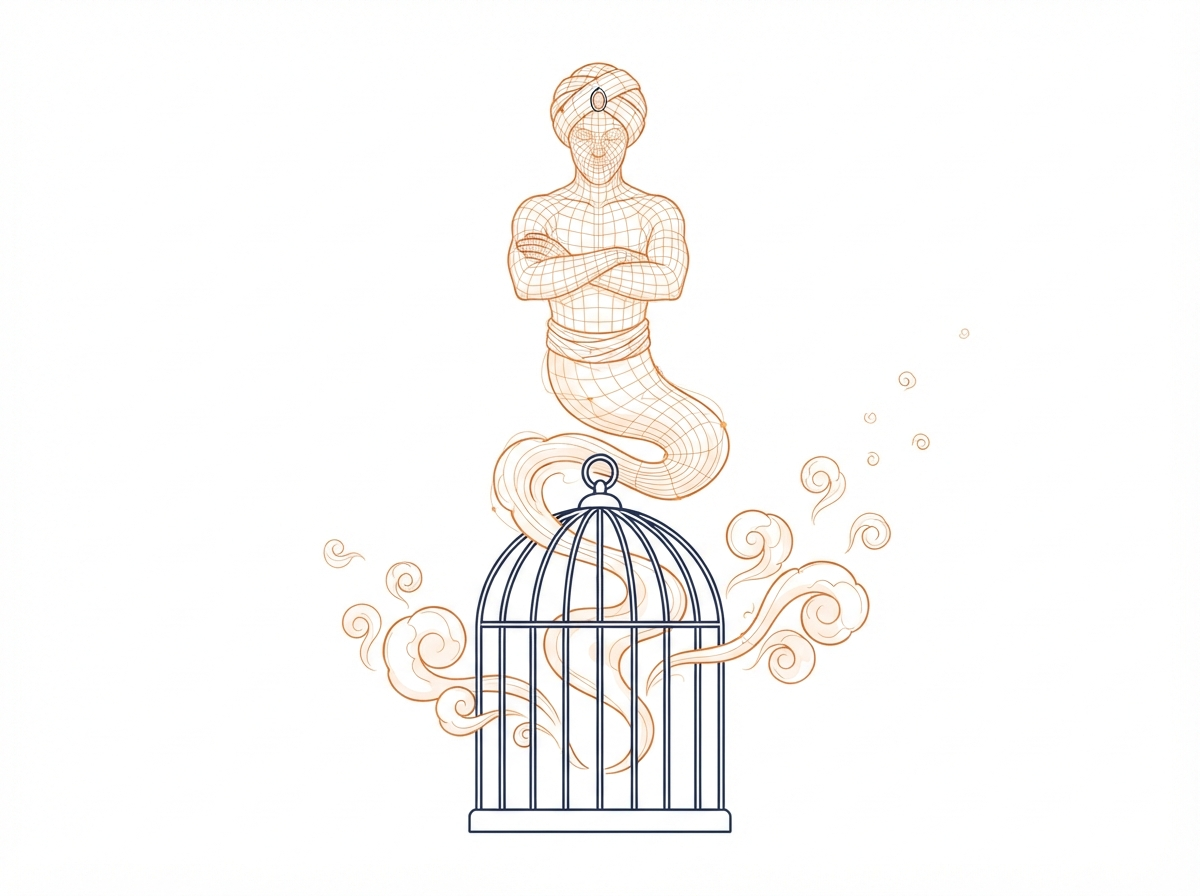
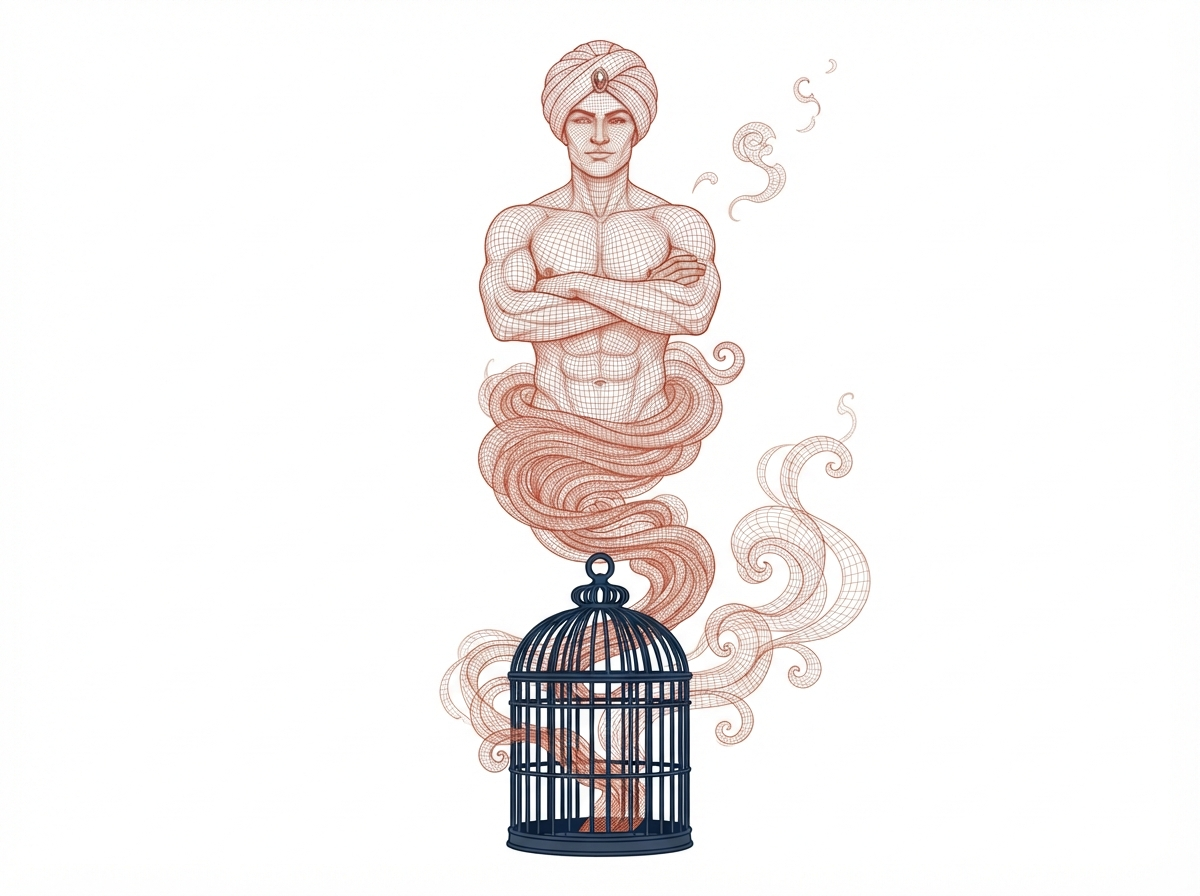
Black box slide, deterministic/stochastic before Claude Code, jailing and harness slides, skill dictionary entry, colour rule for jailing/harness
Claude-Session: https://claude.ai/code/session_01B3j1C4xxpyiURJEUX3y78T

diff --git a/slides/theme.css b/slides/theme.css
@@ -169,8 +169,8 @@
 .reveal .agent { display: flex; align-items: center; justify-content: center; gap: 0.3em; max-width: 1180px; margin: 0.8em auto; }
 .reveal .agent-io { flex: none; width: 4.6em; text-align: center; padding: 0.6em 0.3em; border: 3px solid var(--muted); border-radius: 14px; background: var(--node); font-size: 0.85em; line-height: 1.2; }
 .reveal .agent-arrow { flex: none; font-size: 1.6em; color: var(--muted); }
-.reveal .agent-core { flex: 1; padding: 0.4em 0.5em 0.6em; border: 3px solid var(--accent); border-radius: 16px; background: var(--surface); }
-.reveal .agent-title { color: var(--accent); font-weight: 700; font-size: 0.7em; margin-bottom: 0.4em; }
+.reveal .agent-core { flex: 1; padding: 0.4em 0.5em 0.6em; border: 3px solid var(--muted); border-radius: 16px; background: var(--surface); }
+.reveal .agent-title { font-weight: 700; font-size: 0.7em; margin-bottom: 0.4em; background: linear-gradient(90deg, var(--accent) 50%, var(--accent-2) 50%); -webkit-background-clip: text; background-clip: text; color: transparent; -webkit-text-fill-color: transparent; }
 .reveal .agent-inner { display: flex; align-items: center; justify-content: center; gap: 0.3em; }
 .reveal .agent-box { flex: 1; text-align: center; padding: 0.5em 0.3em; border: 2px solid var(--muted); border-radius: 12px; background: var(--bg); font-size: 0.85em; line-height: 1.2; }
 .reveal .agent-box.focus { border-color: var(--accent); background: var(--accent-soft); }
@@ -189,10 +189,10 @@
 .reveal .llm-down { color: var(--muted); line-height: 0.9; }
 .reveal .llm-back { color: var(--accent-2); font-size: 0.8em; }
 .reveal .agent-box.llm { flex: 1.25; }
-.reveal .agent-box.tools { display: flex; flex-direction: column; gap: 0.25em; padding: 0.3em 0.4em; font-size: 0.7em; }
-.reveal .tools-title { font-size: 1.15em; }
+.reveal .agent-box.tools { border-color: var(--accent-2); display: flex; flex-direction: column; gap: 0.25em; padding: 0.3em 0.4em; font-size: 0.7em; }
+.reveal .tools-title { font-size: 1.15em; color: var(--accent-2); font-weight: 700; }
 .reveal .tool-chip { padding: 0.2em 0.3em; border: 1px solid var(--muted); border-radius: 8px; background: var(--node); line-height: 1.15; }
-.reveal .tool-chip.built { border-color: var(--accent); background: var(--accent-soft); }
+.reveal .tool-chip.built { border-color: var(--accent-2); background: var(--accent-2-soft); }
 .reveal .tool-chip .muted { font-size: 0.8em; }
 
 /* Programmazione tradizionale e Machine Learning: dati in ingresso, computer, uscita */
@@ -202,10 +202,10 @@
 .reveal .ml-box.focus { border-width: 6px; border-color: var(--accent); background: var(--accent-soft); color: var(--accent); font-weight: 700; }
 .reveal .ml-box.focus.det { border-color: var(--accent-2); background: var(--accent-2-soft); color: var(--accent-2); } /* deterministico = blu */
 
-/* Stocastico e deterministico: stesso schema dell'Overview, con le due parti cerchiate */
+/* Stocastico e deterministico: stesso schema, interno nascosto, le due parti colorate */
 .reveal .cli-frame.two .agent-io, .reveal .cli-frame.two .agent-arrow { opacity: 0.35; }
-.reveal .agent-box.ring-a { outline: 5px solid var(--accent); outline-offset: 5px; }
-.reveal .agent-box.ring-b { outline: 5px solid var(--accent-2); outline-offset: 5px; }
+.reveal .agent-box.fill-a { background: var(--accent); border-color: var(--accent); color: var(--bg); font-weight: 700; font-size: 0.75em; padding: 1.2em 0.2em; }
+.reveal .agent-box.fill-b { background: var(--accent-2); border-color: var(--accent-2); color: var(--bg); font-weight: 700; font-size: 0.75em; padding: 1.2em 0.2em; }
 .reveal .ring-tag { align-self: center; padding: 0 0.7em; border-radius: 999px; font-size: 1.05em; font-weight: 700; color: var(--bg); }
 .reveal .ring-a .ring-tag { background: var(--accent); }
 .reveal .ring-b .ring-tag { background: var(--accent-2); }
@@ -215,14 +215,17 @@
 .reveal .pipe.small .pipe-arrow { font-size: 0.9em; }
 
 
-/* La gabbia e il genio: immagine con le etichette ai lati */
-.reveal .genio { display: flex; align-items: stretch; justify-content: center; gap: 0.6em; margin: 0.2em auto; }
-.reveal .genio img { width: 640px; height: 420px; object-fit: cover; margin: 0; border: 0; box-shadow: none; background: transparent; mix-blend-mode: multiply; filter: brightness(1.08) contrast(1.12); }
-.reveal .genio-label { display: flex; flex-direction: column; justify-content: flex-start; font-size: 0.8em; line-height: 1.1; text-align: left; min-width: 4.5em; }
-.reveal .genio-label.bottom { justify-content: flex-end; text-align: right; padding-bottom: 1em; }
-.reveal .genio-label.top { padding-top: 1em; }
-.reveal .genio-label b { font-size: 1.3em; color: var(--text); }
-.reveal .genio-label b.hot { color: var(--accent); }
+/* La gabbia e il genio: un cerchio e una freccia per ciascun concetto (blu = deterministico, arancione = stocastico) */
+.reveal .genio-svg { display: block; width: 900px; max-width: 100%; margin: 0.2em auto; overflow: visible; }
+.reveal .gh-img { mix-blend-mode: multiply; filter: brightness(1.08) contrast(1.12); }
+.reveal .gh-ring-b, .reveal .gh-line-b { fill: none; stroke: var(--accent-2); stroke-width: 5; }
+.reveal .gh-ring-a, .reveal .gh-line-a { fill: none; stroke: var(--accent); stroke-width: 5; }
+.reveal .gh-fill-b { fill: var(--accent-2); }
+.reveal .gh-fill-a { fill: var(--accent); }
+.reveal .gh-t { font-weight: 700; font-size: 38px; }
+.reveal .gh-t-b { fill: var(--accent-2); }
+.reveal .gh-t-a { fill: var(--accent); }
+.reveal .gh-s { fill: var(--muted); font-size: 20px; }
 /* riquadri a intestazione: il nome dell'attore è la fascia in alto, tutti alti uguali */
 .reveal .pipe.narrow { align-items: stretch; }
 .reveal .pipe.narrow .pipe-arrow { align-self: center; }
@@ -302,3 +305,26 @@
 .reveal .azw-r { padding: 0.12em 0; line-height: 1.25; }
 .reveal .azw-r b { color: var(--muted); margin-right: 0.4em; }
 .reveal .azw-r small { display: block; font-size: 0.85em; color: var(--muted); }
+
+/* Agente come black box: stesso riquadro dell'agente, interno chiuso */
+.reveal .agent-core.black { background: var(--text); border-color: var(--text); text-align: center; padding: 0.6em 0.5em 0.8em; }
+.reveal .agent-core.black .agent-title { background: none; -webkit-text-fill-color: var(--bg); color: var(--bg); }
+.reveal .black-q { color: var(--bg); font-size: 1.1em; line-height: 1.3; padding: 0.6em 0; }
+.reveal .black-sub { font-size: 0.6em; opacity: 0.8; }
+
+/* Voce di vocabolario (stile enciclopedia): serif, parola in grassetto, pronuncia, sensi numerati */
+.reveal .dict { max-width: 900px; margin: 0.6em auto; padding: 0.8em 1.4em 1em; text-align: left; font-family: Georgia, "Times New Roman", serif; background: var(--surface); border-top: 4px double var(--text); border-bottom: 1px solid var(--muted); }
+.reveal .dict-head { display: flex; align-items: baseline; gap: 0.6em; border-bottom: 1px solid var(--muted); padding-bottom: 0.2em; }
+.reveal .dict-word { font-size: 1.9em; font-weight: 700; color: var(--text); letter-spacing: 0; }
+.reveal .dict-word.duo { background: linear-gradient(90deg, var(--accent) 50%, var(--accent-2) 50%); -webkit-background-clip: text; background-clip: text; color: transparent; -webkit-text-fill-color: transparent; }
+.reveal .dict code.dict-o { color: var(--accent); }
+.reveal .dict .dict-b { color: var(--accent-2); font-weight: 700; }
+.reveal .dict-pron { color: var(--muted); font-size: 0.9em; }
+.reveal .dict-pos { font-style: italic; color: var(--muted); font-size: 0.85em; }
+.reveal .dict-ety { font-size: 0.6em; color: var(--muted); margin: 0.3em 0 0.6em; }
+.reveal .dict-senses { margin: 0; padding-left: 1.4em; font-size: 0.75em; line-height: 1.35; display: block; }
+.reveal .dict-senses li { margin: 0 0 0.5em; }
+.reveal .dict-senses li::marker { font-weight: 700; color: var(--text); }
+.reveal .dict-field { font-family: var(--r-main-font, sans-serif); font-variant: small-caps; font-weight: 700; font-size: 0.8em; color: var(--muted); margin-right: 0.4em; letter-spacing: 0.04em; }
+/* Titolo a due colori: contiene sia il testo per il genio (arancione) sia il codice (blu) */
+.reveal h1 .duo { background: linear-gradient(90deg, var(--accent) 50%, var(--accent-2) 50%); -webkit-background-clip: text; background-clip: text; color: transparent; -webkit-text-fill-color: transparent; }

diff --git a/slides/slides.md b/slides/slides.md
@@ -11,8 +11,8 @@ Note: Obiettivo: capire cos'è un agente, come funziona dentro, quali trappole h
 ## Di che cosa parleremo
 
 <div class="path">
-  <div><b>1</b>Overview</div>
-  <div><b>2</b>Come funziona dentro</div>
+  <div><b>1</b>Che cos'è</div>
+  <div><b>2</b>Come funziona</div>
   <div><b>3</b>Le trappole</div>
   <div><b>4</b>Un agente dal vivo</div>
   <div><b>5</b>Rischi e responsabilità</div>
@@ -20,13 +20,11 @@ Note: Obiettivo: capire cos'è un agente, come funziona dentro, quali trappole h
 
 ---
 
-# 1. Overview
-
-<span class="muted">Che cos'è un agente</span>
+# 1. Che cos'è un agente?
 
 <div class="path">
-  <div class="here"><b>1</b>Overview</div>
-  <div><b>2</b>Come funziona dentro</div>
+  <div class="here"><b>1</b>Che cos'è</div>
+  <div><b>2</b>Come funziona</div>
   <div><b>3</b>Le trappole</div>
   <div><b>4</b>Un agente dal vivo</div>
   <div><b>5</b>Rischi e responsabilità</div>
@@ -34,35 +32,17 @@ Note: Obiettivo: capire cos'è un agente, come funziona dentro, quali trappole h
 
 ---
 
-## Overview: che cos'è un agente
+## L'agente come black box
 
 <div class="cli-frame">
-  <div class="cli-title">CLI · claude (di default)</div>
   <div class="agent">
-    <div class="agent-io">Prompt</div>
+    <div class="agent-io">prompt</div>
     <div class="agent-arrow">→</div>
-    <div class="agent-core">
-      <div class="agent-title">Agente</div>
-      <div class="agent-inner">
-        <div class="agent-box focus llm">
-          <div class="llm-title">Claude · un LLM</div>
-          <div class="llm-step">Contesto<br><span class="muted">prompt, ragionamento, risultati</span></div>
-          <div class="llm-down">↓</div>
-          <div class="llm-step">Transformer<br><span class="muted">attention + strati</span></div>
-          <div class="llm-down">↓</div>
-          <div class="llm-step">Prossimo token</div>
-          <div class="llm-back">↺ e torna nel contesto</div>
-        </div>
-        <div class="agent-loop">⇄</div>
-        <div class="agent-box tools">
-          <div class="tools-title">Strumenti</div>
-          <div class="tool-chip">di default<br><span class="muted">Read · Edit · Bash</span></div>
-          <div class="tool-chip built">costruiti da noi<br><span class="muted">CLI · MCP</span></div>
-        </div>
-      </div>
+    <div class="agent-core black">
+      <div class="black-q">Agente<br><span class="black-sub">(Claude Code)</span></div>
     </div>
     <div class="agent-arrow">→</div>
-    <div class="agent-io out">Output<br><span class="muted">codice,<br>infrastruttura</span></div>
+    <div class="agent-io out">&amp;lt;code&amp;gt;</div>
   </div>
 </div>
 
@@ -70,48 +50,22 @@ Note: Obiettivo: capire cos'è un agente, come funziona dentro, quali trappole h
 
 ## Deterministico e stocastico
 
-<div class="cli-frame two">
-  <div class="cli-title">CLI · claude (di default)</div>
+<div class="cli-frame">
   <div class="agent">
-    <div class="agent-io">Prompt</div>
+    <div class="agent-io">prompt</div>
     <div class="agent-arrow">→</div>
     <div class="agent-core">
       <div class="agent-title">Agente</div>
       <div class="agent-inner">
-        <div class="agent-box focus llm ring-a">
-          <div class="ring-tag">stocastico</div>
-          <div class="llm-title">Claude · un LLM</div>
-          <div class="llm-step">Contesto<br><span class="muted">prompt, ragionamento, risultati</span></div>
-          <div class="llm-down">↓</div>
-          <div class="llm-step">Transformer<br><span class="muted">attention + strati</span></div>
-          <div class="llm-down">↓</div>
-          <div class="llm-step">Prossimo token</div>
-          <div class="llm-back">↺ e torna nel contesto</div>
-        </div>
+        <div class="agent-box fill-a">stocastico</div>
         <div class="agent-loop">⇄</div>
-        <div class="agent-box tools ring-b">
-          <div class="ring-tag">deterministico</div>
-          <div class="tools-title">Strumenti</div>
-          <div class="tool-chip">di default<br><span class="muted">Read · Edit · Bash</span></div>
-          <div class="tool-chip built">costruiti da noi<br><span class="muted">CLI · MCP</span></div>
-        </div>
+        <div class="agent-box fill-b">deterministico</div>
       </div>
     </div>
     <div class="agent-arrow">→</div>
-    <div class="agent-io out">Output<br><span class="muted">codice,<br>infrastruttura</span></div>
+    <div class="agent-io out">&amp;lt;code&amp;gt;</div>
   </div>
 </div>
-
----
-
-## Il genio della gabbia
-
-<div class="genio">
-  <div class="genio-label bottom"><span class="muted">agente</span><br><b>deterministico</b></div>
-  <img src="img/gabbia-genio.jpg" alt="Un genio di fumo a fil di ferro sorretto da una gabbia di metallo">
-  <div class="genio-label top"><span class="muted">agente</span><br><b class="hot">stocastico</b></div>
-</div>
-
 
 ---
 
@@ -153,7 +107,104 @@ Le regole le trova la macchina dagli esempi.
 
 ---
 
-# Skill
+## Che cos'è Claude Code?
+
+<div class="cli-frame">
+  <div class="cli-title">CLI · claude (di default)</div>
+  <div class="agent">
+    <div class="agent-io">Prompt</div>
+    <div class="agent-arrow">→</div>
+    <div class="agent-core">
+      <div class="agent-title">Agente</div>
+      <div class="agent-inner">
+        <div class="agent-box focus llm">
+          <div class="llm-title">Claude · un LLM</div>
+          <div class="llm-step">Contesto<br><span class="muted">prompt, ragionamento, risultati</span></div>
+          <div class="llm-down">↓</div>
+          <div class="llm-step">Transformer<br><span class="muted">attention + strati</span></div>
+          <div class="llm-down">↓</div>
+          <div class="llm-step">Prossimo token</div>
+          <div class="llm-back">↺ e torna nel contesto</div>
+        </div>
+        <div class="agent-loop">⇄</div>
+        <div class="agent-box tools">
+          <div class="tools-title">Strumenti</div>
+          <div class="tool-chip">default<br><span class="muted">Read · Edit · Bash</span></div>
+          <div class="tool-chip built">custom<br><span class="muted">CLI · MCP</span></div>
+        </div>
+      </div>
+    </div>
+    <div class="agent-arrow">→</div>
+    <div class="agent-io out">Output<br><span class="muted">codice,<br>infrastruttura</span></div>
+  </div>
+</div>
+
+---
+
+## Il genio della lampada
+
+<svg class="genio-svg" viewBox="0 0 1000 440" role="img" aria-label="Il genio che esce dalla lampada: la lampada è deterministica, il genio è il modello stocastico">
+  <defs>
+    <marker id="gh-b2" viewBox="0 0 10 10" refX="8" refY="5" markerWidth="7" markerHeight="7" orient="auto-start-reverse"><path d="M0,0 L10,5 L0,10 z" class="gh-fill-b"/></marker>
+    <marker id="gh-a2" viewBox="0 0 10 10" refX="8" refY="5" markerWidth="7" markerHeight="7" orient="auto-start-reverse"><path d="M0,0 L10,5 L0,10 z" class="gh-fill-a"/></marker>
+  </defs>
+  <image href="img/lampada-genio.jpg" x="220" y="10" width="560" height="418" class="gh-img"/>
+  <ellipse cx="506" cy="362" rx="125" ry="62" class="gh-ring-b"/>
+  <ellipse cx="500" cy="125" rx="95" ry="115" class="gh-ring-a"/>
+  <line x1="300" y1="392" x2="395" y2="392" class="gh-line-b" marker-end="url(#gh-b2)"/>
+  <line x1="790" y1="125" x2="608" y2="125" class="gh-line-a" marker-end="url(#gh-a2)"/>
+  <text x="10" y="310" class="gh-t gh-t-b">Jailing</text>
+  <text x="10" y="346" class="gh-s">sostiene il genio (deterministico)</text>
+  <text x="10" y="378" class="gh-s">CLI · script · permessi · hook</text>
+  <text x="800" y="97" class="gh-t gh-t-a">Harness</text>
+  <text x="800" y="133" class="gh-s">contiene il genio (stocastico)</text>
+  <text x="800" y="165" class="gh-s">CLAUDE.md · regole · skill</text>
+</svg>
+
+<p class="below">Il jailing da solo non basta: bisogna lavorare anche sul genio per contenerlo.</p>
+
+---
+
+## Il genio della gabbia
+
+<svg class="genio-svg" viewBox="0 0 1000 440" role="img" aria-label="Il genio che esce dalla gabbia: la gabbia è deterministica, il genio è il modello stocastico">
+  <defs>
+    <marker id="gh-b" viewBox="0 0 10 10" refX="8" refY="5" markerWidth="7" markerHeight="7" orient="auto-start-reverse"><path d="M0,0 L10,5 L0,10 z" class="gh-fill-b"/></marker>
+    <marker id="gh-a" viewBox="0 0 10 10" refX="8" refY="5" markerWidth="7" markerHeight="7" orient="auto-start-reverse"><path d="M0,0 L10,5 L0,10 z" class="gh-fill-a"/></marker>
+  </defs>
+  <image href="img/gabbia-genio.jpg" x="220" y="10" width="560" height="418" class="gh-img"/>
+  <ellipse cx="499" cy="338" rx="72" ry="96" class="gh-ring-b"/>
+  <ellipse cx="507" cy="125" rx="95" ry="112" class="gh-ring-a"/>
+  <line x1="300" y1="392" x2="432" y2="392" class="gh-line-b" marker-end="url(#gh-b)"/>
+  <line x1="790" y1="125" x2="608" y2="125" class="gh-line-a" marker-end="url(#gh-a)"/>
+  <text x="10" y="310" class="gh-t gh-t-b">Jailing</text>
+  <text x="10" y="346" class="gh-s">sostiene il genio (deterministico)</text>
+  <text x="10" y="378" class="gh-s">CLI · script · permessi · hook</text>
+  <text x="800" y="97" class="gh-t gh-t-a">Harness</text>
+  <text x="800" y="133" class="gh-s">contiene il genio (stocastico)</text>
+  <text x="800" y="165" class="gh-s">CLAUDE.md · regole · skill</text>
+</svg>
+
+<p class="below">Il jailing da solo non basta: bisogna lavorare anche sul genio per contenerlo.</p>
+
+---
+
+# <span class="duo">Skill</span>
+
+---
+
+<div class="dict">
+  <div class="dict-head">
+    <span class="dict-word duo">skill</span>
+    <span class="dict-pron">/skɪl/</span>
+    <span class="dict-pos">sostantivo</span>
+  </div>
+  <div class="dict-ety">dall'antico norreno <i>skil</i>: discernimento, capacità di distinguere</div>
+  <ol class="dict-senses">
+    <li>Abilità acquisita con lo studio e la pratica, che permette di eseguire bene un compito.</li>
+    <li><span class="dict-field">Claude Code</span> Cartella che contiene le istruzioni per un compito, un file <code class="dict-o">SKILL.md</code>, e, se serve, gli <span class="dict-b">script da eseguire</span>. Claude la carica quando serve, oppure la si chiama con <code>/nome</code>.</li>
+  </ol>
+</div>
 
 ---
 
@@ -161,11 +212,9 @@ Le regole le trova la macchina dagli esempi.
 
 Istruzioni scritte una volta, che Claude usa quando servono.
 
-```text
-.claude/skills/azdo/
-├── SKILL.md       frontmatter (name, description) + istruzioni in Markdown
-└── scripts/       codice che la skill può far eseguire
-```
+<pre class="skill"><code class="nohighlight" data-noescape>.claude/skills/azdo/
+├── <span class="o">SKILL.md       frontmatter (name, description) + istruzioni in Markdown</span>
+└── <span class="b">scripts/       codice che la skill può far eseguire</span></code></pre>
 
 <div class="cols">
 <div><span class="tag">Sempre in contesto</span><br>solo la <code>description</code></div>
@@ -427,13 +476,13 @@ flowchart LR
 
 ---
 
-# 2. Come funziona dentro
+# 2. Come funziona
 
 <span class="muted">Il modello, il contesto, gli strumenti</span>
 
 <div class="path">
-  <div><b>1</b>Overview</div>
-  <div class="here"><b>2</b>Come funziona dentro</div>
+  <div><b>1</b>Che cos'è</div>
+  <div class="here"><b>2</b>Come funziona</div>
   <div><b>3</b>Le trappole</div>
   <div><b>4</b>Un agente dal vivo</div>
   <div><b>5</b>Rischi e responsabilità</div>
@@ -848,8 +897,8 @@ flowchart LR
 ### Anche l'agente usa euristiche
 
 <div class="path">
-  <div><b>1</b>Overview</div>
-  <div><b>2</b>Come funziona dentro</div>
+  <div><b>1</b>Che cos'è</div>
+  <div><b>2</b>Come funziona</div>
   <div class="here"><b>3</b>Le trappole</div>
   <div><b>4</b>Un agente dal vivo</div>
   <div><b>5</b>Rischi e responsabilità</div>
@@ -1087,8 +1136,8 @@ E come noi eredita i pregiudizi dai dati.
 ### Claude Code al lavoro
 
 <div class="path">
-  <div><b>1</b>Overview</div>
-  <div><b>2</b>Come funziona dentro</div>
+  <div><b>1</b>Che cos'è</div>
+  <div><b>2</b>Come funziona</div>
   <div><b>3</b>Le trappole</div>
   <div class="here"><b>4</b>Un agente dal vivo</div>
   <div><b>5</b>Rischi e responsabilità</div>
@@ -1558,8 +1607,8 @@ while True:
 # 5. Rischi e responsabilità
 
 <div class="path">
-  <div><b>1</b>Overview</div>
-  <div><b>2</b>Come funziona dentro</div>
+  <div><b>1</b>Che cos'è</div>
+  <div><b>2</b>Come funziona</div>
   <div><b>3</b>Le trappole</div>
   <div><b>4</b>Un agente dal vivo</div>
   <div class="here"><b>5</b>Rischi e responsabilità</div>

diff --git a/.claude/rules/slides.md b/.claude/rules/slides.md
@@ -19,3 +19,4 @@ paths:
 - **Visuale prima del testo:** quando un concetto si può mostrare (confronto, flusso, struttura), meglio un disegno o un diagramma di una lista di punti.
 - **Codice: colori da IDE.** Il codice ha le colorazioni che si vedono negli IDE (palette VS Code chiaro), non quelle del deck: parole chiave blu (`#0000FF`), stringhe marroni (`#A31515`), commenti verdi (`#008000`), funzioni e decoratori ocra (`#795E26`), tipi teal (`#267F99`; `slides/codecolors.js` separa i tipi dalle chiamate a funzioni predefinite, che restano ocra), numeri verde scuro (`#098658`), chiavi JSON blu (`#0451A5`), il resto blu scuro. Sono definite in fondo a `slides/theme.css` e valgono per i blocchi con evidenziazione automatica (` ```python `, ` ```csharp `, ` ```json `): si scrive il linguaggio sul blocco e basta, mai colori a mano. Questa è l'unica eccezione alla palette. Un blocco `text` non viene evidenziato: se serve colorarlo, si usa `<pre class="skill"><code class="nohighlight" data-noescape>` con gli span `.b` (eseguito dal codice: blu), `.o` (testo che Claude interpreta: arancione), `.d` e `.h`, ricordando di scrivere `&amp;lt;` per `<`.
 - **Coerenza grafica.** Prima di inventare una soluzione grafica (colore, etichetta, riquadro, intestazione, pulsante, icona, layout), torna indietro nelle slide già fatte e controlla se lo stesso problema è già stato risolto: se sì, riusa quella soluzione, stessa classe CSS e stessi colori, e non farne una nuova. Vale anche per i significati dei colori (per esempio stocastico arancione, deterministico blu, come in "Stocastico e deterministico") e per gli elementi ricorrenti (tag, fasce con il nome, blocchi di codice). Se una soluzione nuova è davvero necessaria, o una vecchia va cambiata, applicala a tutte le slide che usano lo stesso elemento, non solo a quella su cui stai lavorando, e controlla gli screenshot di ognuna.
+- **Colori di jailing e harness.** Quando una slide parla di parti relative ai modelli, il **jailing** (la parte deterministica: CLI, script, librerie, permessi, hook) è in **blu** (`--accent-2`) e l'**harness** (ciò che governa il modello: `CLAUDE.md`, regole, testo letto da Claude) è in **rosso/arancione** (`--accent`). Un elemento che impiega entrambi, per esempio una skill (testo per Claude più script), non è né solo blu né solo rosso: si mostra con **entrambi i colori** (per esempio il titolo «Skill» metà arancione e metà blu), mai con uno solo. Dentro la skill le singole parti restano blu o arancione, a seconda di cosa sono.
